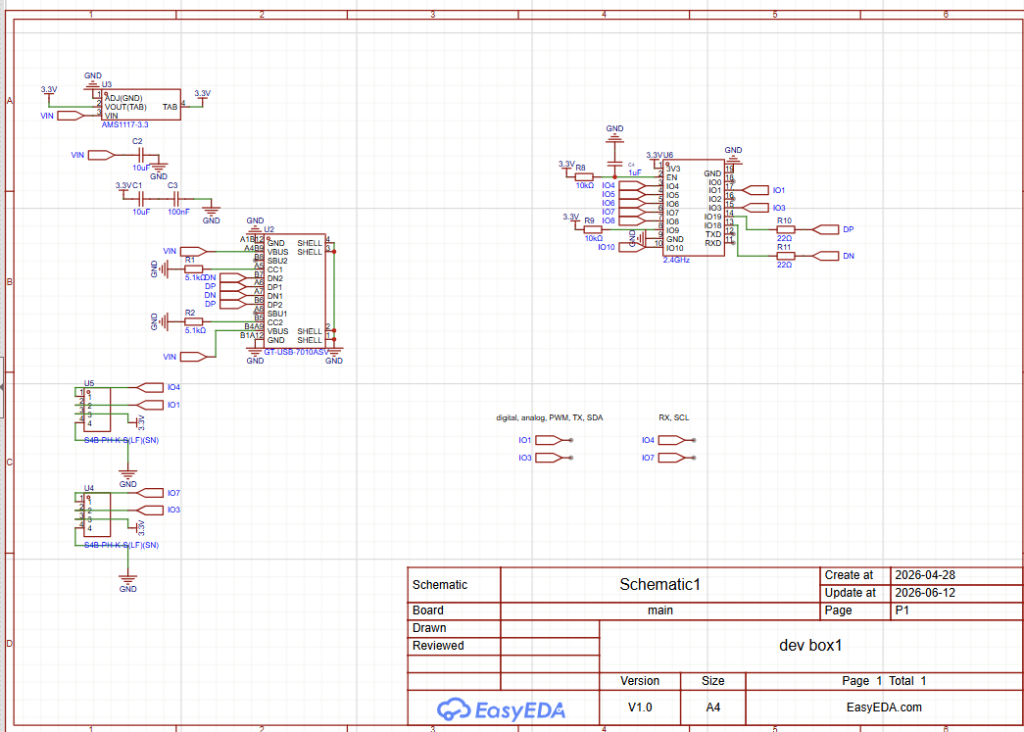
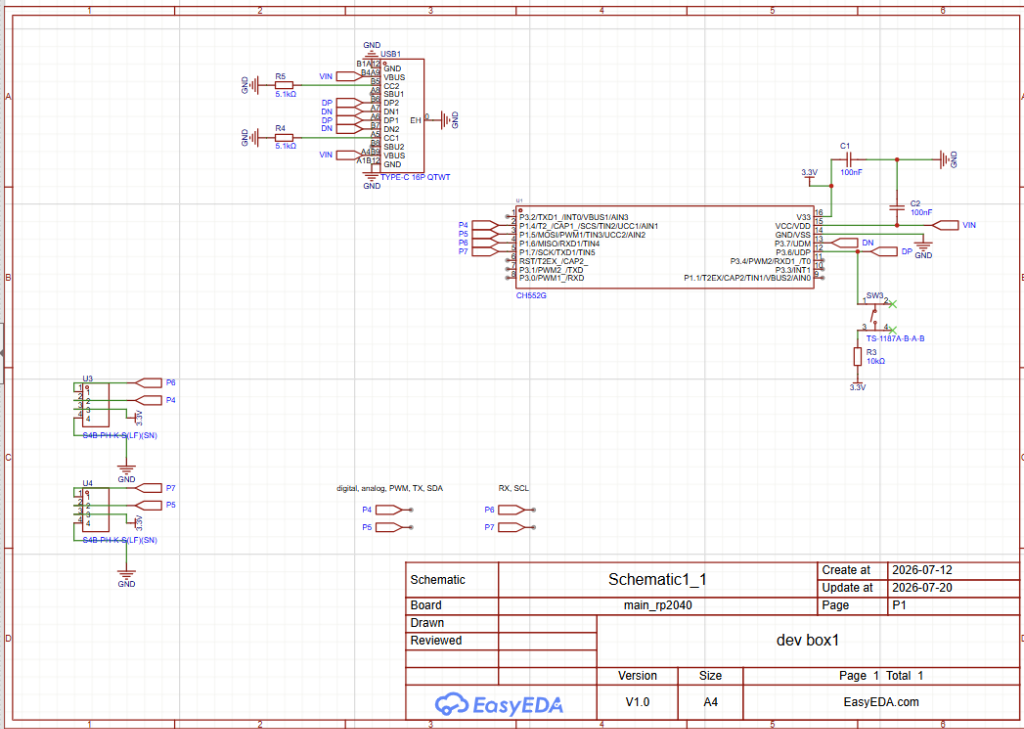
docs(schematic): update to CH552G schematic and add sensor module renders and schematics

diff --git a/README.md b/README.md
@@ -1,50 +1,52 @@
 # Devbox V1
 
-> **An ultra-low-cost, driverless physical computing kit and block programming platform powered by the WCH CH552G microcontroller.**
+> **This is an ultra low cost, driverless physical prpgramming kit and block programming platform powered with the WCH CH552G microcontroller.**
 
 ![Devbox V1 3D Assembly](docs/images/cad_assembly.png)
 
 ---
 
-## 📌 Project Overview
+**Devbox V1** will be an educational hardware board designed to make embedded programming and innvovation accessible, portable, and not frustrating for kids and teens.
 
-**Devbox V1** is an all-in-one educational hardware and software ecosystem designed to make learning physical computing accessible, portable, and completely frictionless.
+It has:
 
-It features:
-- **Custom Hardware:** A compact 30mm × 45mm custom PCB powered by the WCH CH552G 8051 USB microcontroller, housed in a custom 3D-printed snap/sliding enclosure.
-- **Keyed Expansion Ports:** Dual 4-pin JST-PH 2.0mm keyed connectors (Port 1 & Port 2) preventing reversed polarity and eliminating loose breadboard jumper wires.
-- **Zero-Driver WebHID Bootloader:** Custom-written C firmware running on the CH552 that flashes over standard USB HID. No Zadig, WinUSB, or vendor drivers are needed—works straight out of the box on school Chromebooks, Windows, Linux, and Android.
-- **Visual Block Programming:** A custom Blockly-based web workspace (`webBlocks`) that converts graphical logic blocks into C / Arduino code.
-- **Cloud Compilation Engine:** A stateless FastAPI backend (`API`) that runs `arduino-cli` with `CH55xDuino` to compile code on the fly and stream flashable binaries directly into the browser.
-
----
-
-## 💡 Why I Made Devbox V1
-
-Most beginner electronics platforms (Arduino Uno, ESP32, micro:bit) cost between $15 to $35+, and setting them up in classrooms or clubs is often frustrating. School laptops and Chromebooks frequently block serial driver installation (CH340/CP2102) and lack administrative permissions to configure COM ports or run native IDEs. Furthermore, delicate breadboards and messy jumper wires break constantly when transported.
-
-I built Devbox V1 to solve this:
-1. **Under $2 Total Bill of Materials:** The entire custom board costs less than $1.50 in components, making classroom sets affordable on any budget.
-2. **Zero-Driver Plug & Play:** By engineering a custom USB HID bootloader, users can plug the device into any modern web browser (WebHID) and flash it in under a second with zero drivers or native software installation.
-3. **Durable, Keyed Modularity:** Keyed JST-PH ports ensure students cannot plug sensors in backwards or short out power rails, protected inside a rugged 3D-printed enclosure.
+- **Custom Hardware:** A compact PCB powered by the WCH CH552G 8051 microcontroller, in a custom 3D printed snap enclosure.
+- **Sensor Ports:** Dual 4-pin JST-PH 2.0mm connectors (Port 1 & Port 2) without any loose breadboard jumper wires!
+- **HID Bootloader:** Custom C firmware running on the CH552 that flashes over standard USB HID. No frustrating drivers, or vendor drivers works straight out of the box on my school Chromebooks, and Android phones.
+- **Block Programming:** A custom Blockly workspace that turns graphical logic blocks into C code, just simple hebrew.
+- **Cloud Compilation:** An API) that runs `arduino-cli` with `CH55xDuino` to compile code without prblems for the kids using the app.
 
 ---
 
-## 📸 Project Pictures & Media
+## Why I Made Devbox V1
 
-### 1. Full 3D CAD Assembly & Enclosure
-The complete 3D CAD model showing the custom PCB seated inside the 3D-printed sliding case, with USB-C and expansion port cutouts:
+In my opinion, most beginner electronics (Arduino Uno, ESP32, micro:bit) cost between $15 to $35+, and setting them up in classrooms is often frustrating. a lot of my friends don't have computers and can only use their phone. School laptops block serial drivers i need to install for arduino and you need to configure COM ports or run complicatedIDEs for kids that even don't know english well. breadboards and messy jumper wires break constantly and its reall hard to work with it so i added grove connectors to my board.
 
-![Devbox V1 3D Model](docs/images/cad_assembly.png)
+I am trying to build Devbox V1 to solve this:
+
+1. **Most important - under 4ILS Total board cost:** The entire custom board costs less than $2 in components, making classroom sets affordable for everyone! i want to try it on larg classes and for a class of 40 its 160 dollars for a whole kit for every kid!
+2. **Plug & Play:** By making a custom USB HID bootloader, kids can plug the device into any phone and flash it in under a second with zero drivers or frustrations.
+3. **No connection issues:** JST-PH ports ensure students cannot plug sensors in backwards or short out power rails.
+
+---
+
+## 📸 Project Pictures & Hardware Renders
+
+### 1. 3D Model & Enclosure Assembly
+The complete 3D CAD model showing the custom PCB seated inside the 3D-printed sliding case, alongside a 3D board render with Hebrew silkscreen (*"לוח פיתוח לילדים גרסה 1.0"*):
+
+| 3D Enclosure Assembly | 3D Board Render |
+| :---: | :---: |
+| ![Devbox V1 3D Model](docs/images/cad_assembly.png) | ![Devbox V1 Board 3D Render](docs/images/board_3d_render.png) |
 
 *CAD files available in [`hardware/cad/board_enclosure.step`](hardware/cad/board_enclosure.step) (.STEP) and [`hardware/cad/board_enclosure.f3d`](hardware/cad/board_enclosure.f3d) (Fusion 360 source).*
 
 ---
 
-### 2. Custom PCB Design & Schematic
-The custom 30mm × 45mm 2-layer PCB designed in EasyEDA Pro, routing the CH552G MCU, decoupling capacitors, USB-C CC logic, and dual expansion headers:
+### 2. Main Controller Schematic & PCB Layout
+The custom 30mm × 45mm 2-layer PCB designed in EasyEDA Pro, routing the CH552G MCU, decoupling capacitors, USB-C CC logic, and dual expansion connectors:
 
-| Schematic | PCB Layout & Silkscreen |
+| CH552G Main Schematic | PCB Layout & Silkscreen |
 | :---: | :---: |
 | ![Schematic](docs/images/schematic.png) | ![PCB Layout](docs/images/pcb_layout.png) |
 
@@ -52,7 +54,16 @@ The custom 30mm × 45mm 2-layer PCB designed in EasyEDA Pro, routing the CH552G 
 
 ---
 
-### 3. Wiring & Pinout Architecture
+### 3. Modular Sensor Example (Temperature & Humidity Module)
+Devbox V1 features a dedicated ecosystem of companion sensor boards that connect over the 4-pin keyed JST-PH interface. Below is the custom Temperature & Humidity sensor module featuring thermal isolation routing and the SC7A20 accelerometer sensor schematic:
+
+| Sensor Module 3D Render | Sensor 2D Layout & Thermometer Silkscreen | Sensor Schematic Example |
+| :---: | :---: | :---: |
+| ![Sensor 3D Render](docs/images/sensor_3d_render.png) | ![Sensor 2D PCB](docs/images/sensor_pcb_layout.png) | ![Sensor Schematic](docs/images/sensor_schematic.png) |
+
+---
+
+### 4. Wiring & Expansion Pinout
 Devbox V1 routes microcontroller pins to two standardized 4-pin expansion connectors:
 
 ![Devbox V1 Wiring Diagram](docs/images/wiring_diagram.svg)
@@ -64,7 +75,7 @@ Devbox V1 routes microcontroller pins to two standardized 4-pin expansion connec
 
 ---
 
-### 3. Modular Peripherals & Visual Blocks
+### 5. Visual Blocks Programming
 The block interface allows drag-and-drop programming tailored specifically to Devbox V1's hardware modules:
 
 ![Modular Components](docs/images/modules_overview.png)
@@ -99,71 +110,23 @@ DevboxV1/
 
 ---
 
-## 🛠 Bill of Materials (BOM) & Budget
+## 🛠 Bill of Materials (BOM)
 
-The complete Bill of Materials encompasses the **core controller**, the **modular sensor ecosystem** (designed in EasyEDA Pro), **manufacturing tooling**, and **custom packaging** to ship complete kits.
+_All components are sourced for maximum cost efficiency through LCSC and JLCPCB:_
 
-*(See full machine-readable [`BOM.csv`](BOM.csv) in repository root with direct distributor part links)*
+| Item           | Designator | Description                              | Qty | Footprint  | Supplier   | Part Number                                                   | Unit Cost  | Link                                                      |
+| :------------- | :--------- | :--------------------------------------- | :-: | :--------- | :--------- | :------------------------------------------------------------ | :--------: | :-------------------------------------------------------- |
+| **MCU**        | U1         | WCH CH552G 8051 USB Microcontroller      |  1  | SOP-16     | LCSC       | [C111292](https://www.lcsc.com/product-detail/C111292.html)   |   $0.38    | [LCSC](https://www.lcsc.com/product-detail/C111292.html)  |
+| **USB**        | USB1       | USB Type-C 16-Pin Receptacle             |  1  | SMD-16P    | LCSC       | [C5187472](https://www.lcsc.com/product-detail/C5187472.html) |   $0.14    | [LCSC](https://www.lcsc.com/product-detail/C5187472.html) |
+| **Headers**    | U3, U4     | JST-PH 2.0mm 4-Pin Right Angle Connector |  2  | CONN-TH_4P | LCSC       | [C157926](https://www.lcsc.com/product-detail/C157926.html)   |   $0.10    | [LCSC](https://www.lcsc.com/product-detail/C157926.html)  |
+| **Button**     | SW3        | Tactile Push Button (Reset/Bootloader)   |  1  | SMD-4P     | LCSC       | [C318884](https://www.lcsc.com/product-detail/C318884.html)   |   $0.04    | [LCSC](https://www.lcsc.com/product-detail/C318884.html)  |
+| **Capacitors** | C1, C2     | 100nF 50V X7R Ceramic Capacitor          |  2  | 0603       | LCSC       | [C14663](https://www.lcsc.com/product-detail/C14663.html)     |   $0.01    | [LCSC](https://www.lcsc.com/product-detail/C14663.html)   |
+| **Resistor**   | R3         | 10kΩ 5% Pull-Up Resistor                 |  1  | 0603       | LCSC       | [C98220](https://www.lcsc.com/product-detail/C98220.html)     |   $0.01    | [LCSC](https://www.lcsc.com/product-detail/C98220.html)   |
+| **Resistors**  | R4, R5     | 5.1kΩ 1% Type-C CC Pull-Down Resistors   |  2  | 0603       | LCSC       | [C122969](https://www.lcsc.com/product-detail/C122969.html)   |   $0.01    | [LCSC](https://www.lcsc.com/product-detail/C122969.html)  |
+| **PCB**        | PCB        | Custom 2-Layer FR-4 (30mm × 45mm)        |  1  | 30x45mm    | JLCPCB     | Custom                                                        |   $0.40    | [JLCPCB](https://jlcpcb.com)                              |
+| **Enclosure**  | Case       | 3D Printed PETG/PLA Sliding Case (~25g)  |  1  | Custom 3D  | Self / Hub | Custom                                                        |   $0.50    | [3D Print](https://jlcpcb.com/3d-printing)                |
+| **TOTAL**      |            | **Complete Unit Cost**                   |     |            |            |                                                               | **~$1.60** |                                                           |
 
-### 1. Devbox V1 Core Controller Board (5 Boards Prototype Batch)
-| Component | Designator | Description | Qty | Supplier | Part # | Unit Price | Total |
-| :--- | :--- | :--- | :---: | :--- | :--- | :---: | :---: |
-| **MCU** | U1 | WCH CH552G 8051 USB MCU (SOP-16) | 5 | LCSC | [C111292](https://www.lcsc.com/product-detail/C111292.html) | $0.38 | $1.90 |
-| **USB-C Port** | USB1 | USB Type-C 16-Pin SMD Receptacle | 5 | LCSC | [C5187472](https://www.lcsc.com/product-detail/C5187472.html) | $0.14 | $0.70 |
-| **Expansion Ports** | U3, U4 | JST-PH 2.0mm 4-Pin Right Angle Header | 10 | LCSC | [C157926](https://www.lcsc.com/product-detail/C157926.html) | $0.10 | $1.00 |
-| **Reset Switch** | SW3 | 5.1×5.1mm SMD Tactile Push Button | 5 | LCSC | [C318884](https://www.lcsc.com/product-detail/C318884.html) | $0.04 | $0.20 |
-| **Capacitors** | C1, C2 | 100nF 50V X7R 0603 Ceramic Capacitor | 10 | LCSC | [C14663](https://www.lcsc.com/product-detail/C14663.html) | $0.01 | $0.10 |
-| **Pull-Up Resistor** | R3 | 10kΩ 5% 0603 Thick Film Resistor | 5 | LCSC | [C98220](https://www.lcsc.com/product-detail/C98220.html) | $0.01 | $0.05 |
-| **CC Resistors** | R4, R5 | 5.1kΩ 1% 0603 Type-C CC Pull-Down | 10 | LCSC | [C122969](https://www.lcsc.com/product-detail/C122969.html) | $0.01 | $0.10 |
-| **Bare PCB** | PCB | Custom 2-Layer FR-4 (30×45mm, 5 pcs) | 5 | JLCPCB | [Custom PCB](https://jlcpcb.com) | $0.40 | $2.00 |
-| **Subtotal (5 Core Boards)** | | | | | | | **$6.05** |
-
----
-
-### 2. Modular Sensor & Peripheral Ecosystem (from EasyEDA Schematics)
-| Module / Component | Designator | Description | Qty | Supplier | Part # | Unit Price | Total |
-| :--- | :--- | :--- | :---: | :--- | :--- | :---: | :---: |
-| **SHT40 Temp & Humidity** | U_SHT40 | Sensirion SHT40 Precision I2C Sensor IC | 5 | LCSC | [C54823945](https://www.lcsc.com/product-detail/C54823945.html) | $1.95 | $9.75 |
-| **AHT20 Temp & Humidity** | U_AHT20 | ASAIR AHT20 Standard I2C Temp & Humidity | 5 | LCSC | [C2757850](https://www.lcsc.com/product-detail/C2757850.html) | $0.85 | $4.25 |
-| **SC7A20 Accelerometer** | U_SC7A20 | Silan SC7A20HTR 3-Axis Motion Sensor | 5 | LCSC | [C19274408](https://www.lcsc.com/product-detail/C19274408.html) | $0.45 | $2.25 |
-| **ATGM336H GPS / GNSS** | U_GPS | Zhongke Micro BDS/GPS Navigation Module | 2 | LCSC | [C90770](https://www.lcsc.com/product-detail/C90770.html) | $3.20 | $6.40 |
-| **Piezo Buzzer** | BUZZER1 | MLT-8530 Electromagnetic SMD Buzzer | 5 | LCSC | [C94599](https://www.lcsc.com/product-detail/C94599.html) | $0.25 | $1.25 |
-| **Buzzer Driver Transistor** | Q1 | S8050 NPN Transistor (SOT-23) | 5 | LCSC | [C916390](https://www.lcsc.com/product-detail/C916390.html) | $0.02 | $0.10 |
-| **Flyback Diode** | D1 | 1N4148W High-Speed Diode (SOD-123) | 5 | LCSC | [C917030](https://www.lcsc.com/product-detail/C917030.html) | $0.02 | $0.10 |
-| **RGB NeoPixel LED** | LED1 | SK6812 5050 Addressable RGB LED | 10 | LCSC | [C2765348](https://www.lcsc.com/product-detail/C2765348.html) | $0.08 | $0.80 |
-| **Big Key Switch** | KEY1 | B3F-4055 12×12mm Tactile Button | 5 | LCSC | [C84931](https://www.lcsc.com/product-detail/C84931.html) | $0.15 | $0.75 |
-| **JST Sensor Headers** | CN_SENS | JST-PH 2.0mm 4-Pin Straight Male Header | 15 | LCSC | [C131334](https://www.lcsc.com/product-detail/C131334.html) | $0.08 | $1.20 |
-| **Sensor Breakout PCBs** | PCB_SENS | Panelized 2-Layer Sensor Breakout Batch | 5 | JLCPCB | [Custom Breakouts](https://jlcpcb.com) | $1.00 | $5.00 |
-| **Subtotal (Sensor Boards)** | | | | | | | **$31.85** |
+_(See full machine-readable [`BOM.csv`](BOM.csv) in repository root)_
 
 ---
-
-### 3. Assembly Tooling & Prototyping
-| Tool / Material | Description | Qty | Supplier | Unit Price | Total |
-| :--- | :--- | :---: | :--- | :---: | :---: |
-| **SMD Soldering Stencil** | Stainless steel electropolished frameless SMT stencil for solder paste application | 1 | [JLCPCB Stencil](https://jlcpcb.com/smt-stencil) | $7.00 | $7.00 |
-| **WCH-LinkE Programmer** | USB ISP / SWD debugger & programmer for flashing blank CH552 MCUs | 1 | [AliExpress / WCH](https://www.aliexpress.com/item/1005004815454659.html) | $4.80 | $4.80 |
-| **PETG 3D Printing Filament** | 1.75mm 1kg spool for printing durable, heat-resistant sliding enclosures | 1 | [Amazon](https://www.amazon.com/dp/B07PGZNM34) | $16.99 | $16.99 |
-| **Subtotal (Tooling)** | | | | | **$28.79** |
-
----
-
-### 4. Custom Packaging & Kit Fulfillment
-| Packaging Item | Description | Qty | Supplier | Unit Price | Total |
-| :--- | :--- | :---: | :--- | :---: | :---: |
-| **Custom Kraft Cardboard Boxes** | 50×50×100mm rigid folding kraft kit boxes (20-pack) | 1 pack | [Amazon](https://www.amazon.com/dp/B08M9J8V1G) | $14.50 | $14.50 |
-| **Anti-Static ESD Shielding Bags** | Translucent ESD ziplock protective bags for boards & sensors (50-pack) | 1 pack | [Amazon](https://www.amazon.com/dp/B07P7QG69N) | $7.99 | $7.99 |
-| **Custom Branding Stickers** | Die-cut vinyl logo stickers for enclosure & kit box branding (50-pack) | 1 pack | [StickerMule](https://www.stickermule.com/custom-stickers) | $9.00 | $9.00 |
-| **Subtotal (Packaging)** | | | | | **$31.49** |
-
----
-
-### 💰 Grand Total Budget
-$$\mathbf{\$6.05} \text{ (5 Controllers)} + \mathbf{\$31.85} \text{ (Sensors)} + \mathbf{\$28.79} \text{ (Tooling)} + \mathbf{\$31.49} \text{ (Packaging)} = \mathbf{\$98.18}$$
-
-*(A complete, self-contained educational classroom kit run under $100)*
-
----
-
-## 📜 License
-Devbox V1 hardware and firmware are open-source under the GNU General Public License v3.0 (see [LICENSE](LICENSE)).
